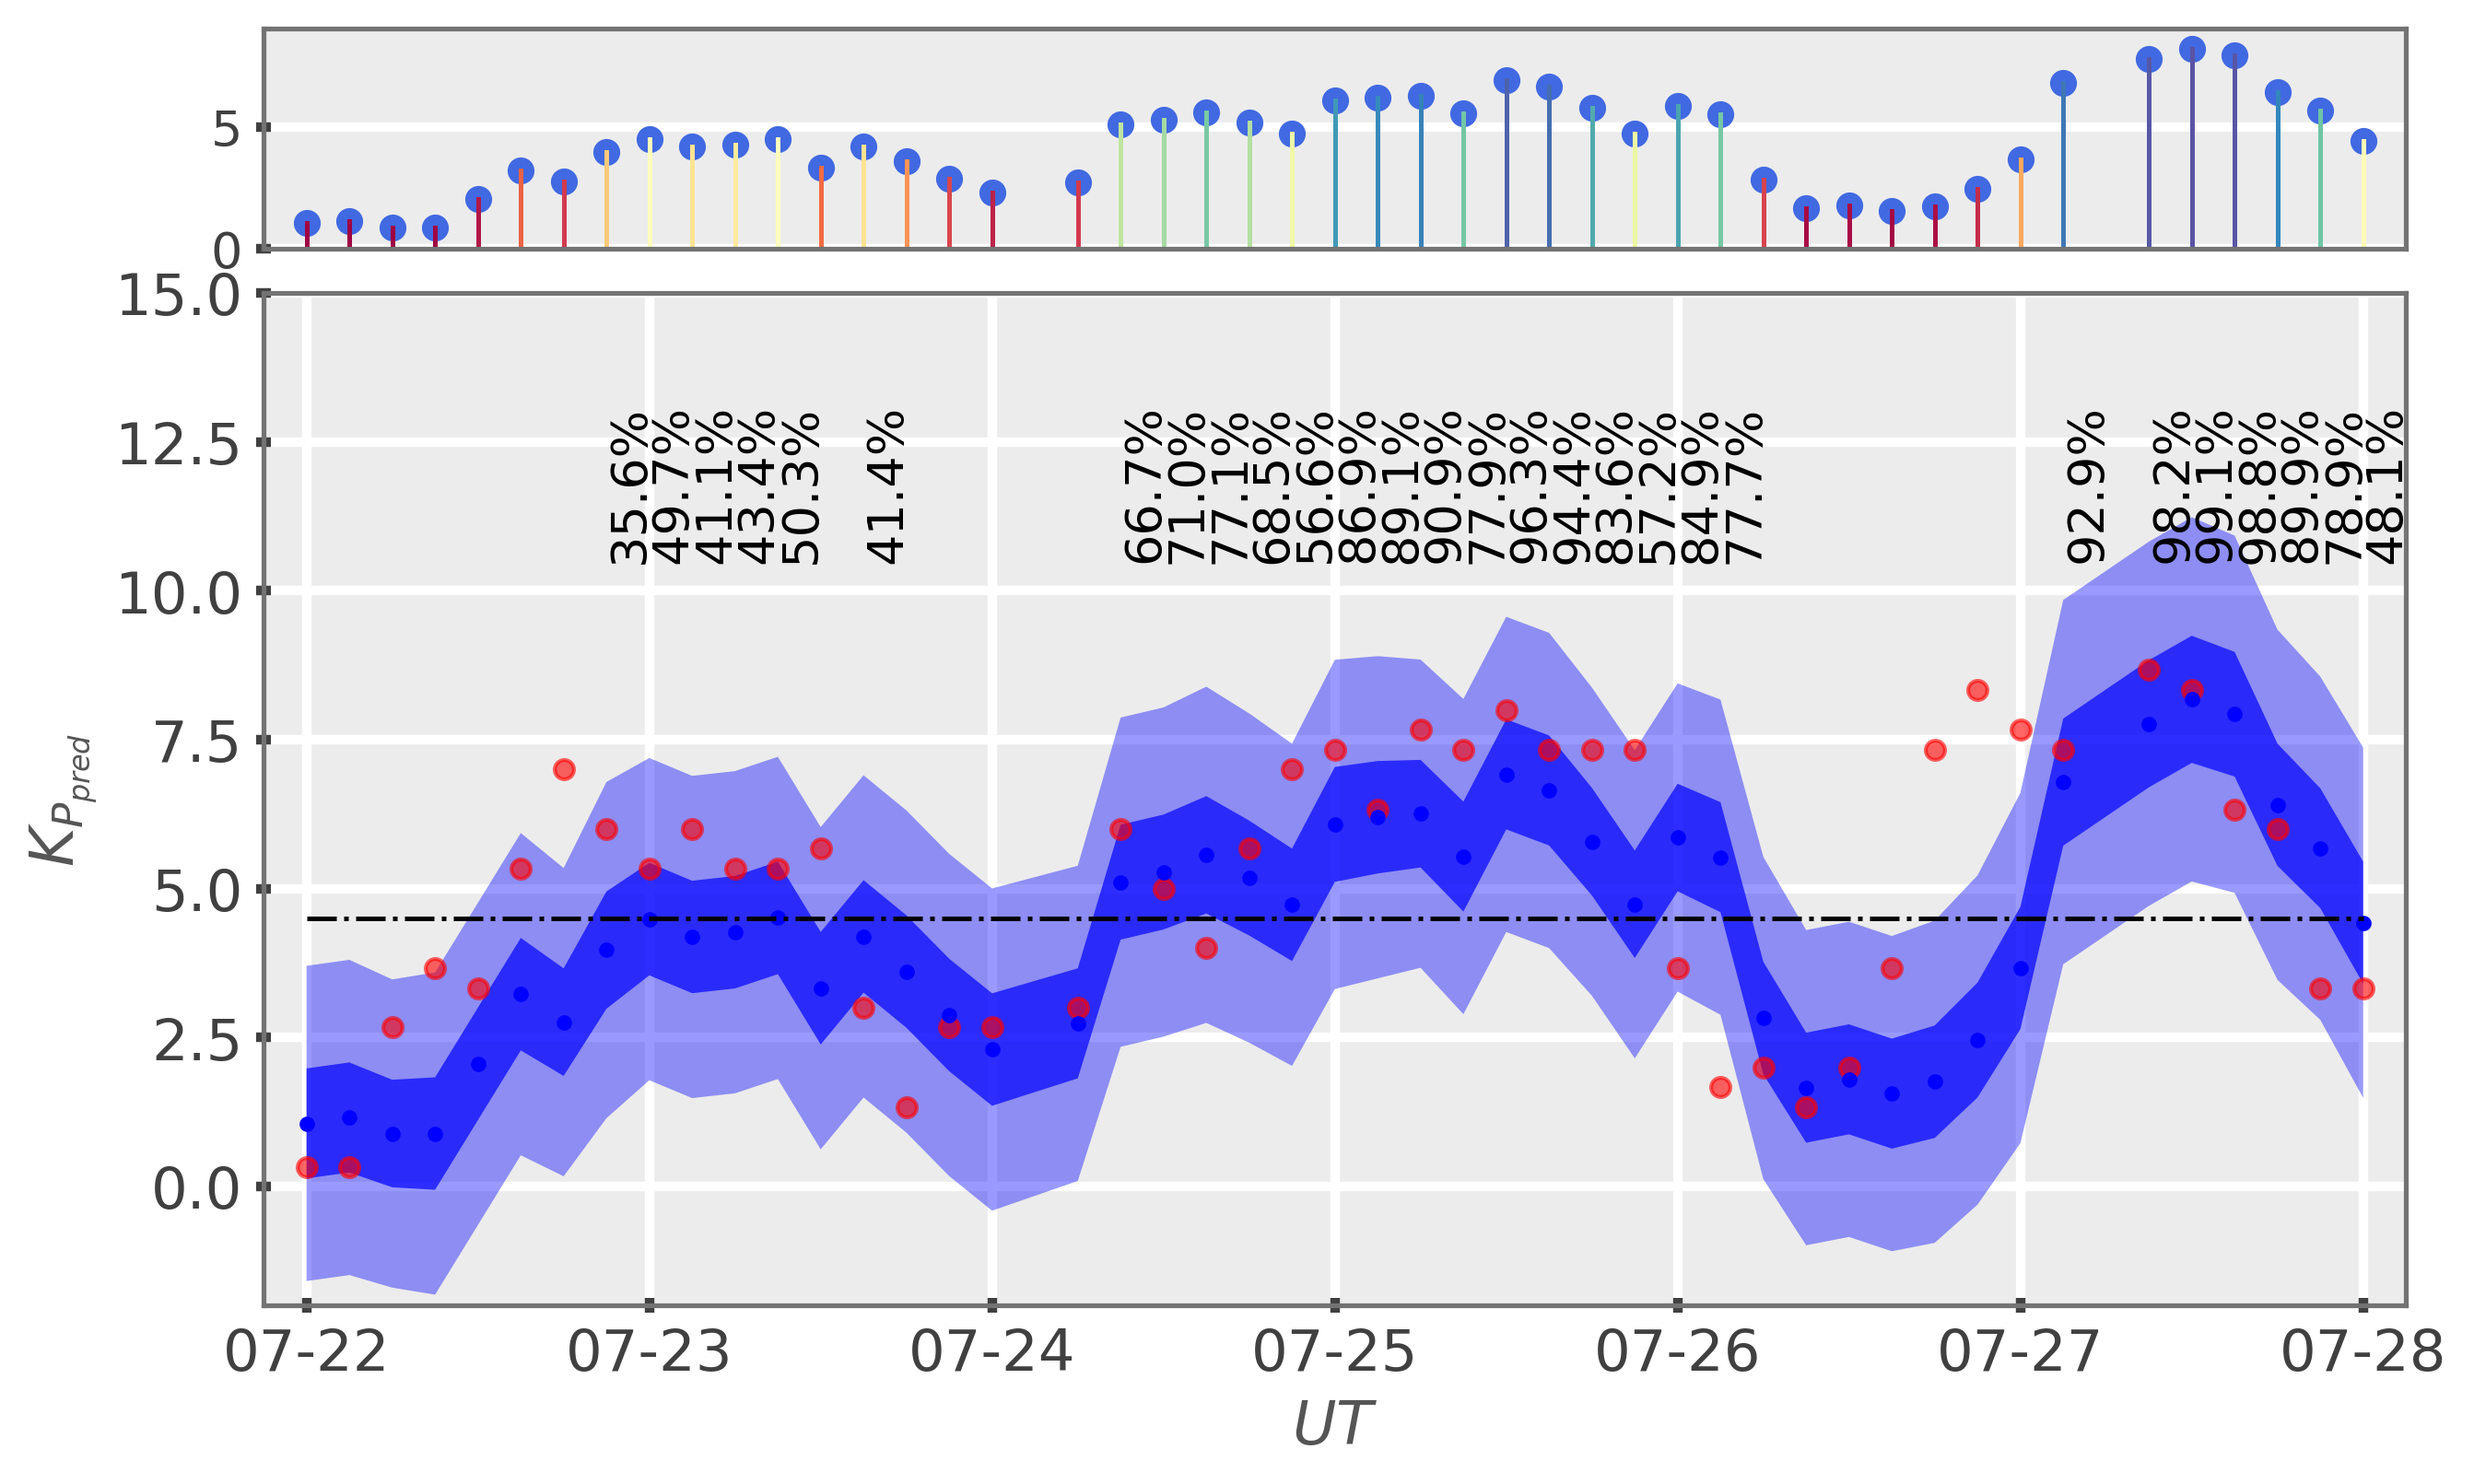
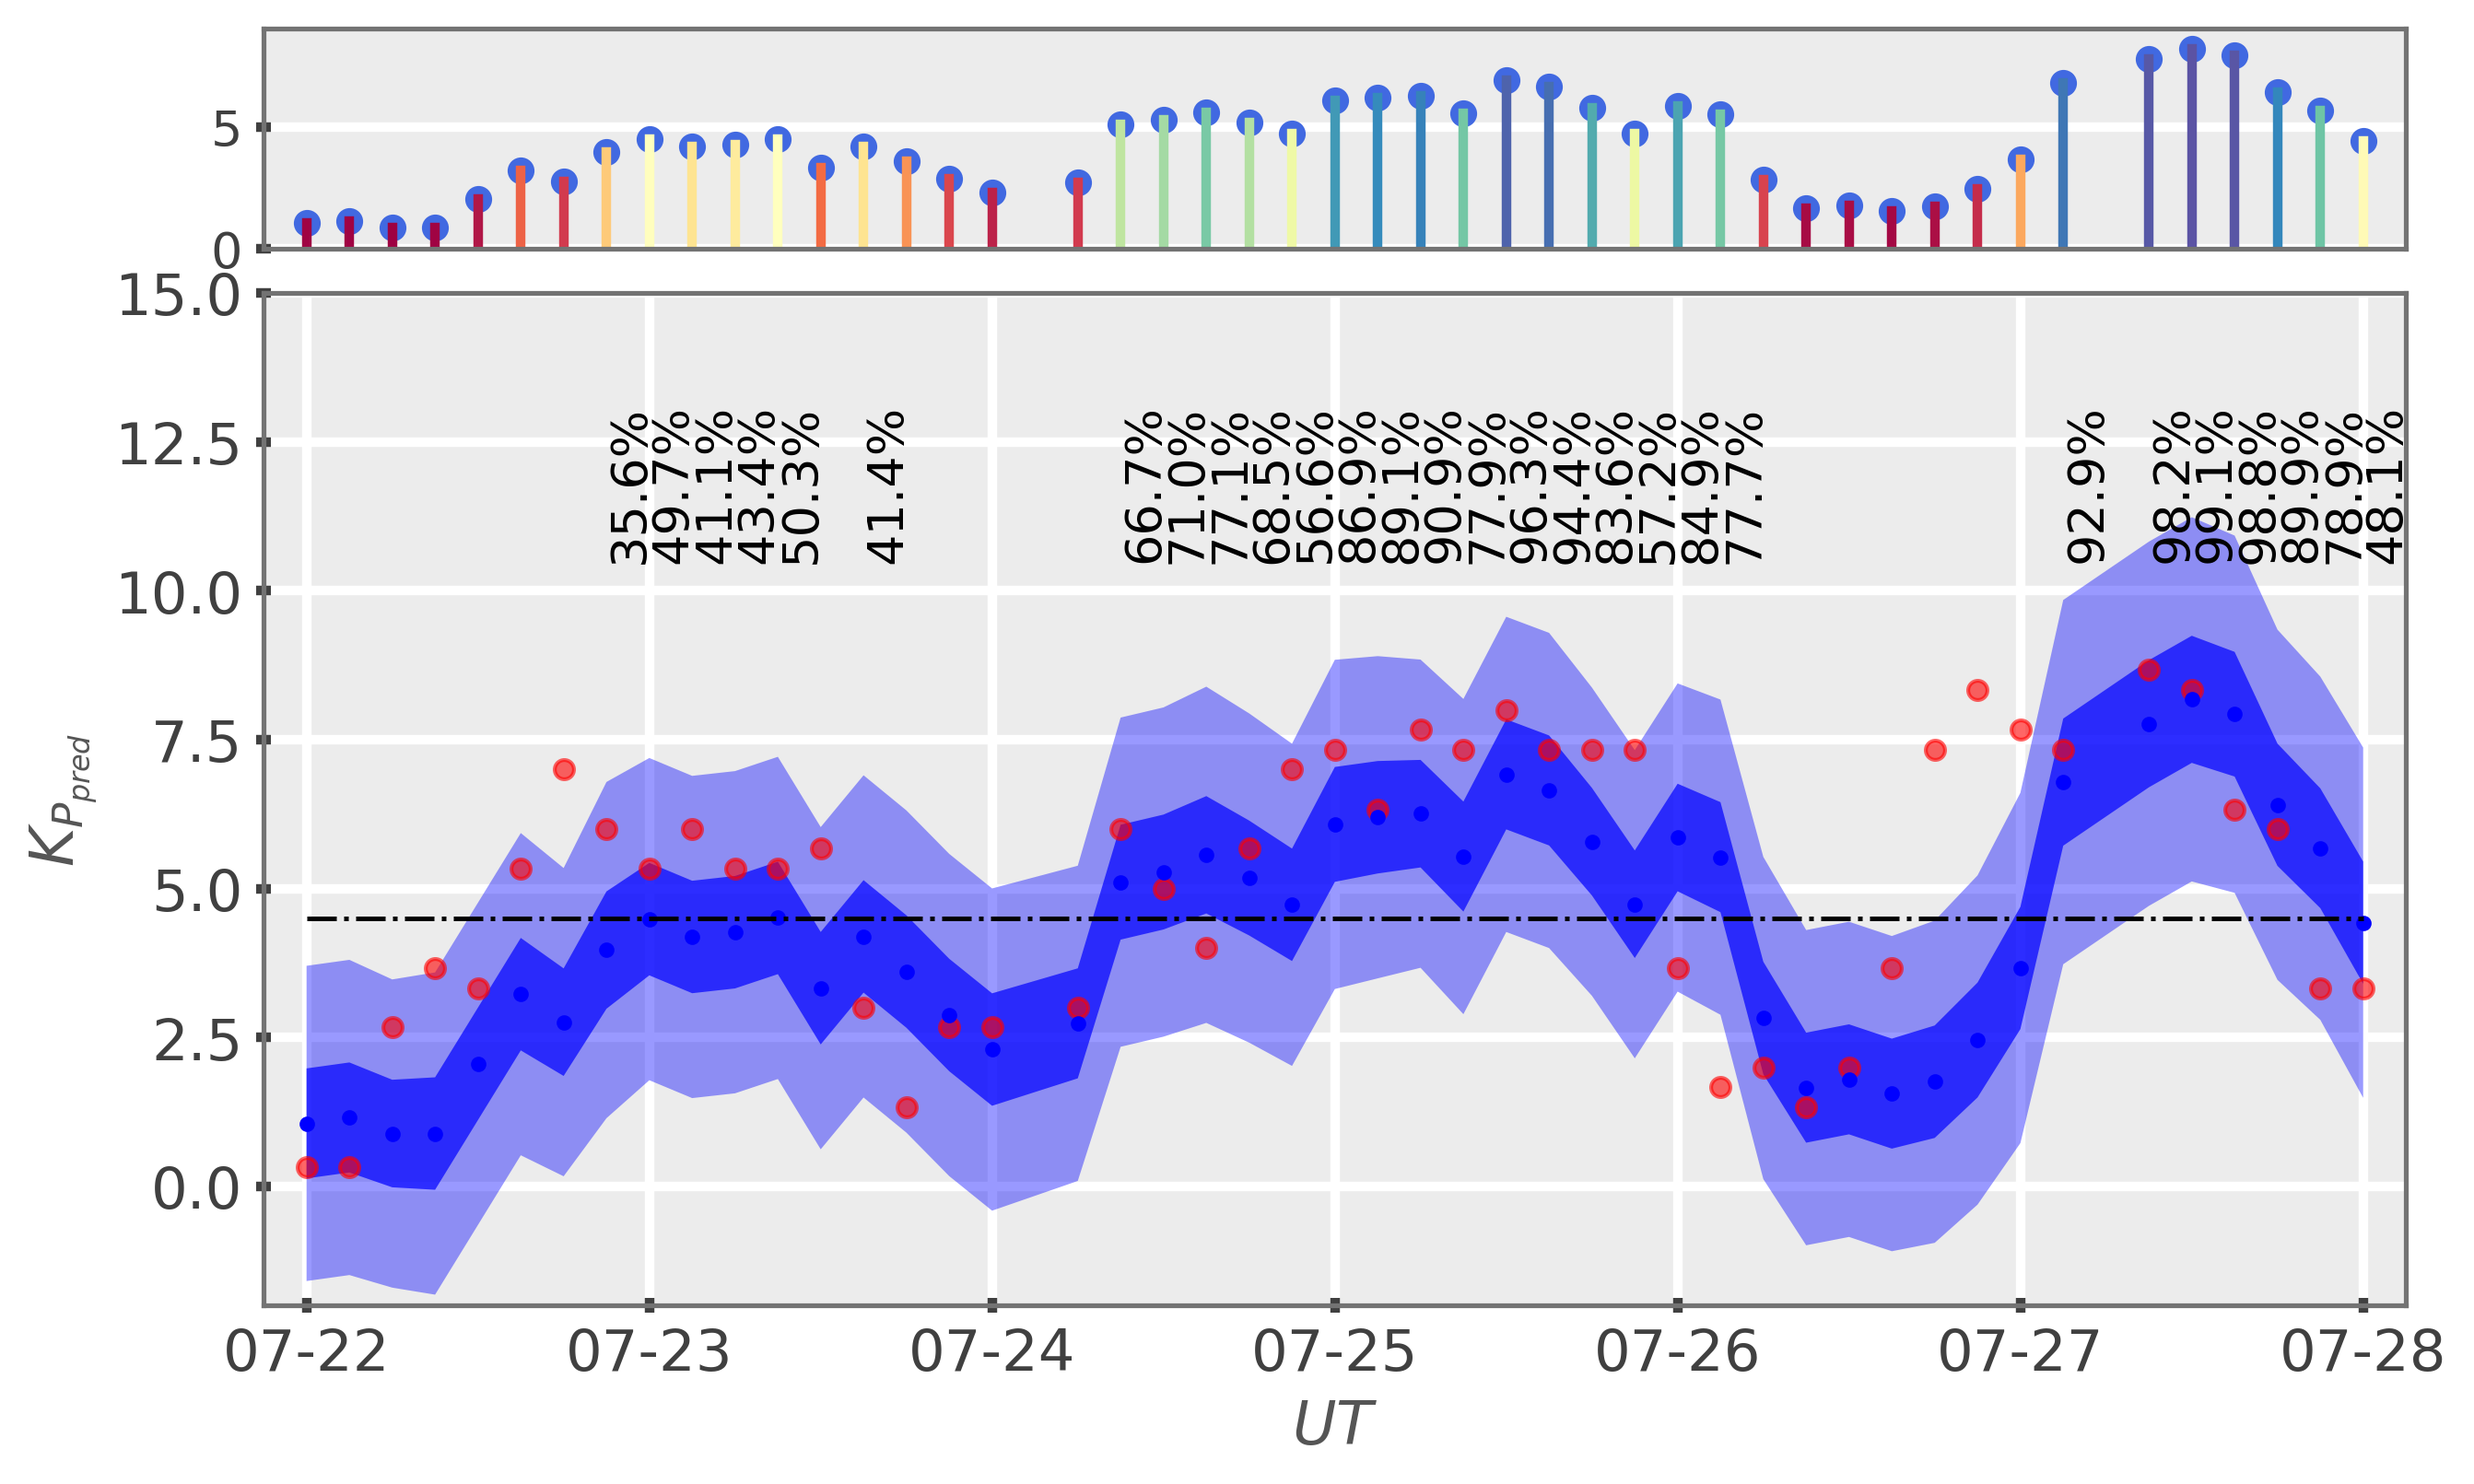
ft

diff --git a/util.py b/util.py
@@ -423,8 +423,9 @@ def proba_storm_forcast(model,trw):
     for m,s,d in zip(y_pred, sigma,_o.dn.tolist()):
         pr = np.round((1 - norm.cdf(4.5, m, s))*100,1)
         if pr > 30.: ax.text(d,12.5,str(pr)+"%",rotation=90)
-        markerline, stemlines, baseline = ax0.stem([d], [m],c=cmap(pr))
+        markerline, stemlines, baseline = ax0.stem([d], [m])
         plt.setp(stemlines, 'color', cmap(pr/100.))
+        plt.setp(stemlines, 'linewidth', 2.5)
         pass
     ax.set_ylim(-2,15)
     fig.savefig("out/stat/det.pred.%s.%d.forecast.png"%(model,trw),bbox_inches="tight")
